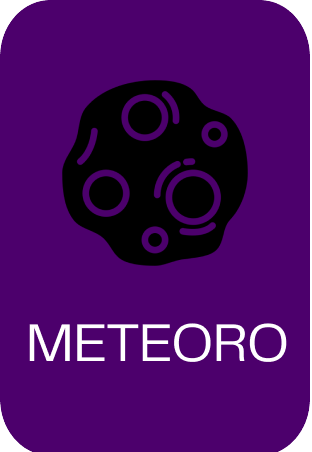
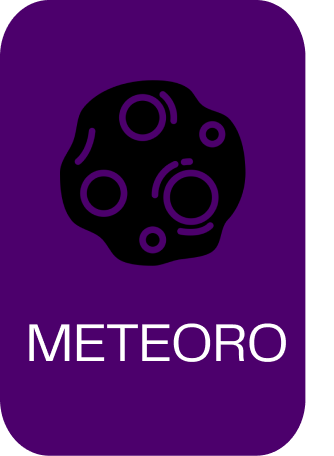
img do carrossel

diff --git a/CARROSSEL/index.html b/CARROSSEL/index.html
@@ -38,35 +38,35 @@
                         <a href="../CONTEÚDO/LUA/lua.html"><img src="../../img/img.lua-carrossel.png" alt="imagem lua"></a>
                     </div>
     
-                    <div class="imagem_carrosel">
+                    <div class="imagem_carrosel1">
                         <a href="../CONTEÚDO/METEORO/meteoro.html"><img src="../img/imgcarrossel.meteoro.png" alt="imagem meteoro"></a>
                     </div>
     
-                    <div class="imagem_carrosel">
-                        <a href="../CONTEÚDO/MERCURIO/mercurio.html"><img src="../../img/img.mercurio-carrossel.png" alt="imagem mercurio"></a>
+                    <div class="imagem_carrosel2">
+                        <a href="../CONTEÚDO/MERCURIO/mercurio.html"><img src="../../img/imgmercurio-carrossel.png" alt="imagem mercurio"></a>
                     </div>
     
-                    <div class="imagem_carrosel">
+                    <div class="imagem_carrosel3">
                         <a href="../CONTEÚDO/VENUS/venus.html"><img src="../img/imgcarrossel.vênus.png" alt="imagem venus"></a>
                     </div>
     
-                    <div class="imagem_carrosel">
+                    <div class="imagem_carrosel4">
                         <a href="../CONTEÚDO/TERRA/terra.html"><img src="../../img/img.Terra-carrossel.png" alt="imagem terra"></a>
                     </div>
     
-                    <div class="imagem_carrosel">
+                    <div class="imagem_carrosel5">
                         <a href="../../CONTEÚDO/MARTE/marte.html"><img src="../../img/img.marte-.png" alt="imagem marte"></a>
                     </div>
     
-                    <div class="imagem_carrosel">
+                    <div class="imagem_carrosel6">
                         <a href="../../CONTEÚDO/JUPTER/jupter.html"><img src="../../img/img.jupter-carrossel.png" alt="imagem jupter"></a>
                     </div>
     
-                    <div class="imagem_carrosel">
+                    <div class="imagem_carrosel7">
                         <a href="../../CONTEÚDO/SATURNO/saturno.html"><img src="../../img/img.saturno-carrossel.png" alt="imagem saturno"></a>
                     </div>
     
-                    <div class="imagem_carrosel">
+                    <div class="imagem_carrosel8">
                         <a href="../../CONTEÚDO/URANO/urano.html"><img src="../../img/img.urano-carrossel.png" alt="imagem urano"></a>
                     </div>
     

diff --git a/CARROSSEL/carrossel.css b/CARROSSEL/carrossel.css
@@ -135,7 +135,7 @@ section {
     display: flex;
     align-items: center;
     justify-content: center;
-    gap: 32px;
+    gap: 35px;
     width: 100%; 
     margin: 0 auto;
     height: 500px;
@@ -166,12 +166,67 @@ section {
 
 }
 
+.imagem_carrosel1 img {
+    width: 15.3rem; 
+    height: 20.3rem; 
+    border-radius: 1.5rem;
+    transition: transform 0.3s ease-in-out;
+    cursor: pointer;
+}
 
+.imagem_carrosel2 img {
+    width: 14.3rem; 
+    height: 20.3rem; 
+    border-radius: 1.5rem;
+    transition: transform 0.3s ease-in-out;
+    cursor: pointer;
+}
+.imagem_carrosel3 img {
+    width: 14.3rem; 
+    height: 20.3rem; 
+    border-radius: 1.5rem;
+    transition: transform 0.3s ease-in-out;
+    cursor: pointer;
+}
+.imagem_carrosel4 img {
+    width: 14.3rem; 
+    height: 20.3rem; 
+    border-radius: 1.5rem;
+    transition: transform 0.3s ease-in-out;
+    cursor: pointer;
+}
+.imagem_carrosel5 img {
+    width: 14.3rem; 
+    height: 20.3rem; 
+    border-radius: 2rem;
+    transition: transform 0.3s ease-in-out;
+    cursor: pointer;
+}
+.imagem_carrosel6 img {
+    width: 14.3rem; 
+    height: 20.3rem; 
+    border-radius: 2rem;
+    transition: transform 0.3s ease-in-out;
+    cursor: pointer;
+}
+.imagem_carrosel7 img {
+    width: 14.3rem; 
+    height: 20.4rem; 
+    border-radius: 2rem;
+    transition: transform 0.3s ease-in-out;
+    cursor: pointer;
+}
+.imagem_carrosel8 img {
+    width: 14.3rem; 
+    height: 20.3rem; 
+    border-radius: 2rem;
+    transition: transform 0.3s ease-in-out;
+    cursor: pointer;
+}
 
 .carrossel-de-imagens .imagem_carrosel img:hover{
     transform: scale(1.05);
 }
-
 
 .seta-esquerda img, .seta-direita img {
     width: 50px; 
@@ -187,11 +242,10 @@ section {
 .seta-esquerda, .seta-direita {
     display: flex;
     align-items: center;
-<<<<<<< HEAD
     height: 100%;
     z-index: 99;
 }
-=======
+
 }
 
 .seta-direita {
@@ -202,4 +256,3 @@ section {
     margin-right: 10%;
 }
 
->>>>>>> c2b37c3 (Quiz finalizado.)
